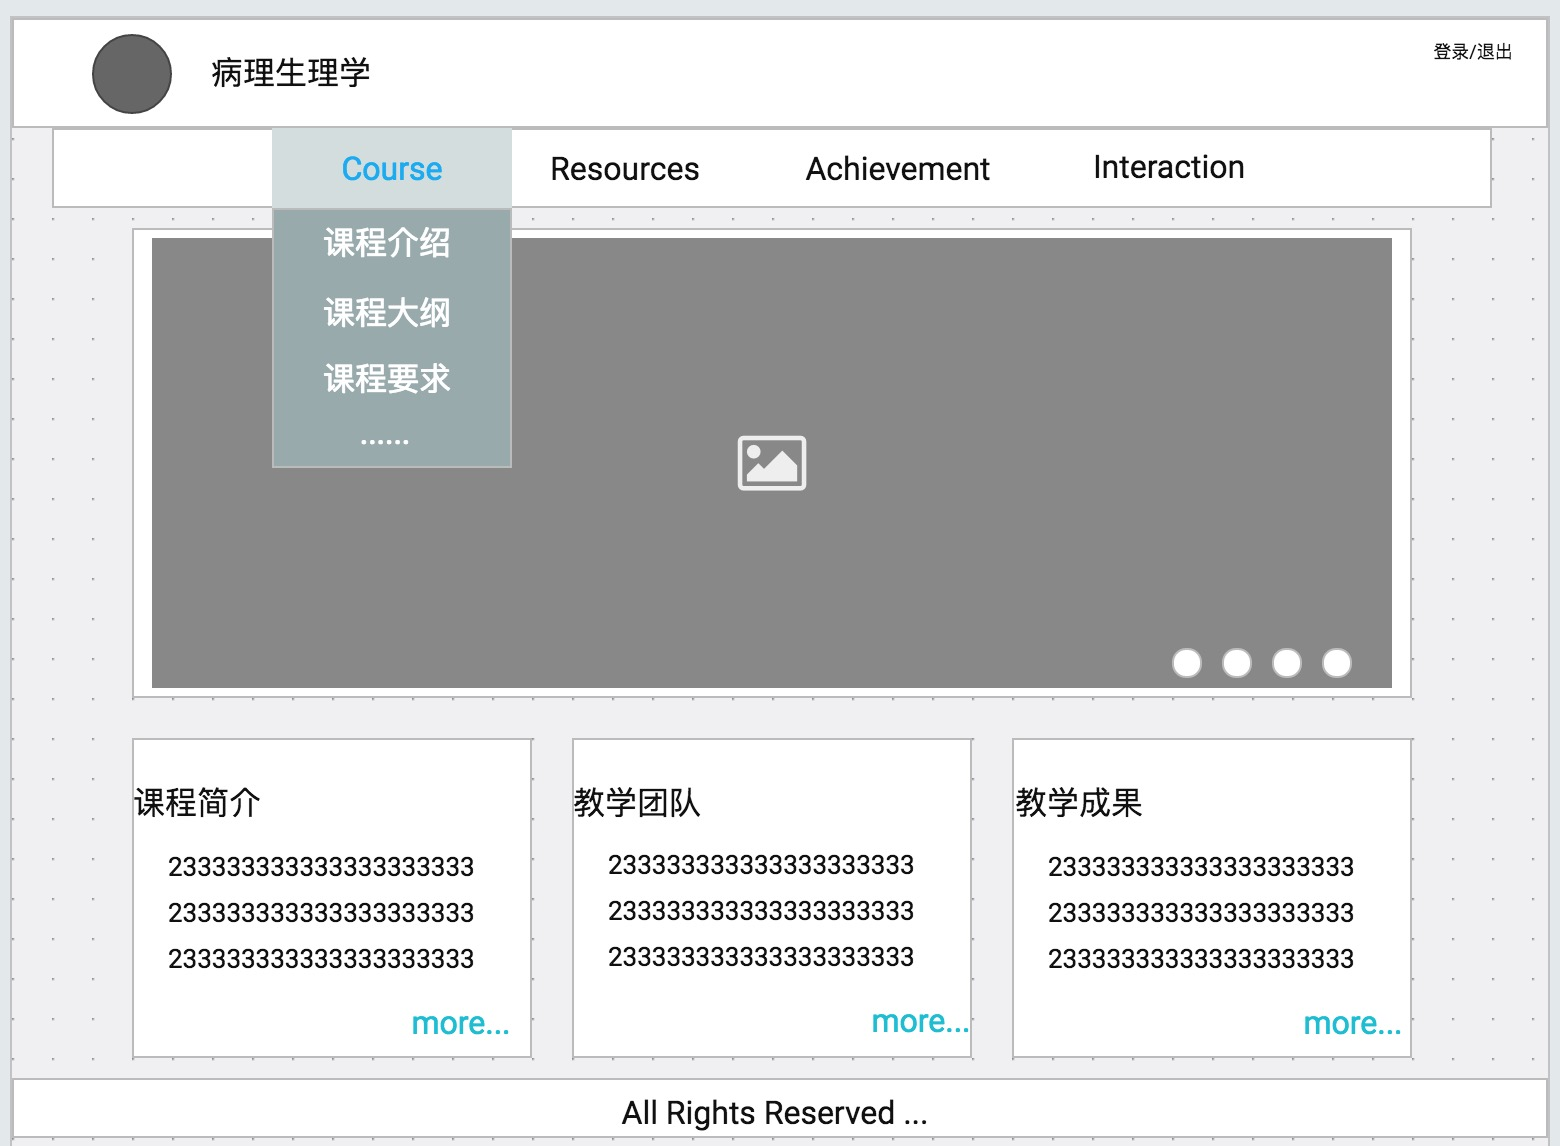
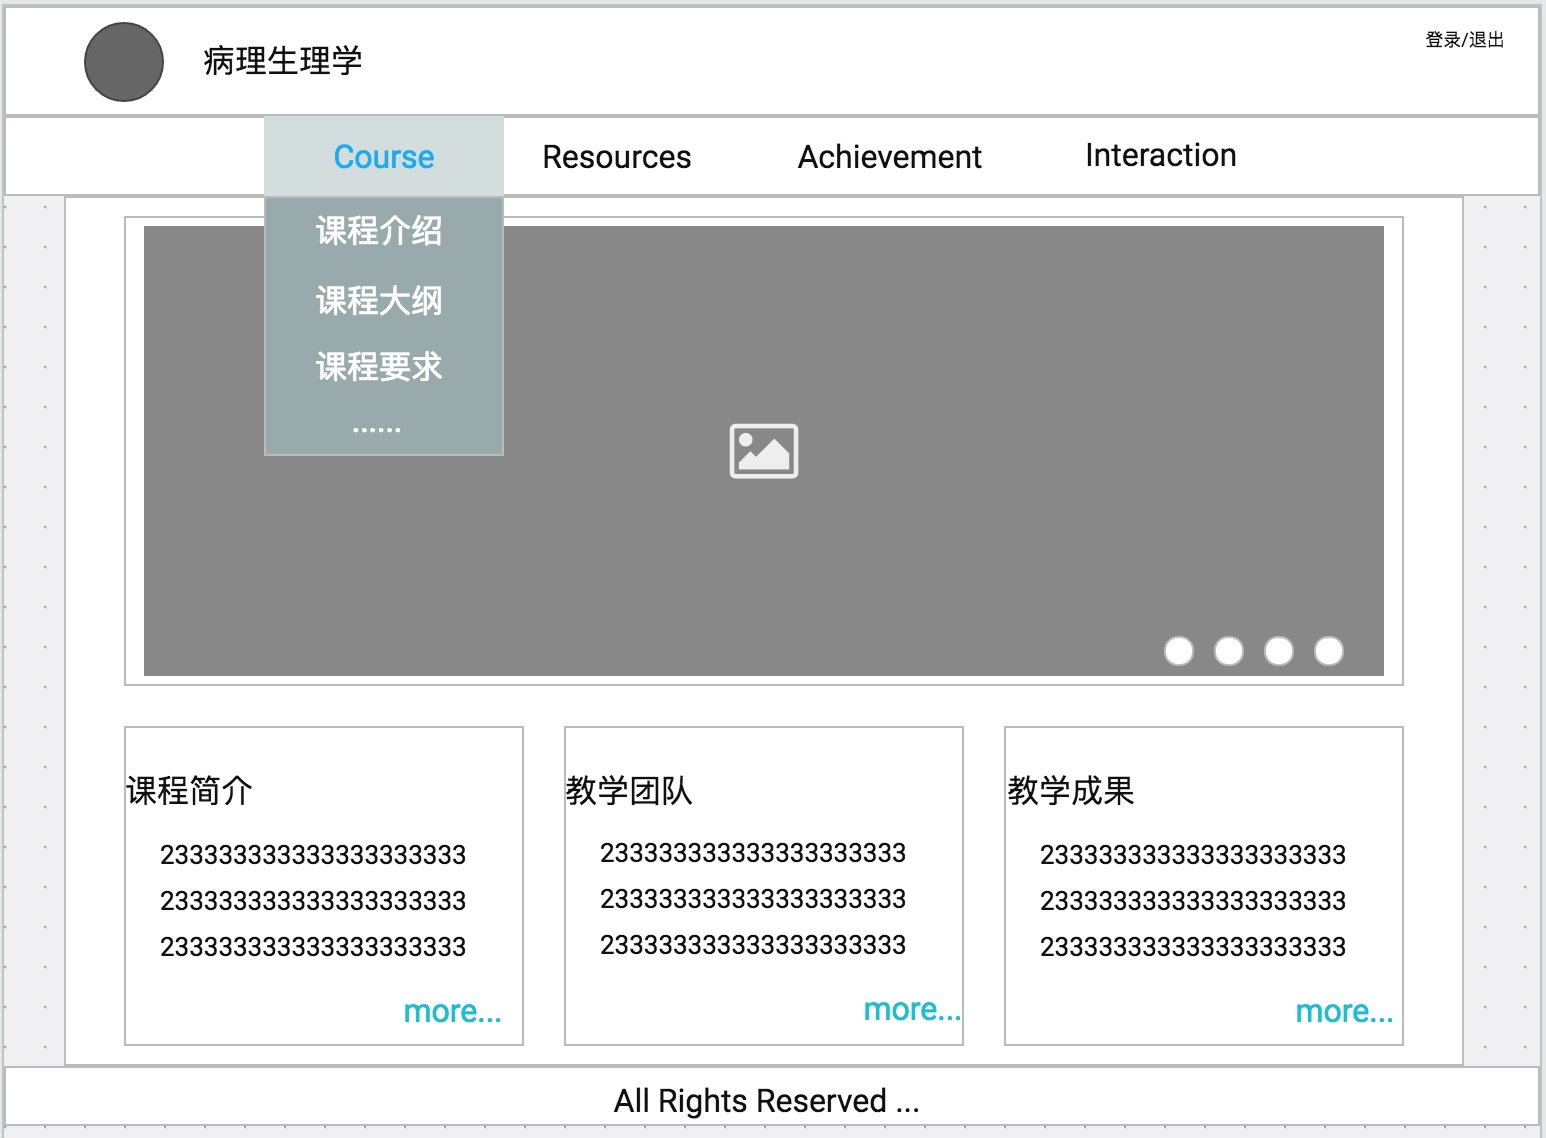
更新原型界面

Changed region(s): [[0.0, 0.0, 1.0, 1.0], [0.4657, 0.3691, 0.5278, 0.4306], [0.652, 0.6766, 0.7451, 0.7074]]

diff --git a/README.md b/README.md
@@ -101,9 +101,11 @@ git branch -d mydev
 **备注：**hover顶部4个项时候弹出菜单，菜单中包含相应模块的各部分内容的链接；主页中间为轮播图，展示教研室以及课程的特色；下面为3个主要的简介，最后的"more"是一个链接，可以跳转到相应的详细介绍的界面；
 
 #### B、主体界面
-![demo-main](images-for-readme/demo-main.png)
+![demo-main-1](images-for-readme/demo-main-1.png)
+![demo-main-2](images-for-readme/demo-main-2.png)
+![demo-main-3](images-for-readme/demo-main-3.png)
 
-**备注：**Course、Resources等4部分内容都在主体界面中展示，初步想法为根据不同的URL渲染不同的组件即可。每个组件的UI具体如何，待进一步完善设计。
+**备注：**Course、Resources等4部分内容都在主体界面中展示，初步想法为根据不同的URL渲染不同的组件即可，上面是简单的示例。每个组件的UI具体如何，信息如何呈现，需要待开发过程中进一步完善，整体上需要保持风格一致。
 
 #### C、管理界面
 ![demo-management](images-for-readme/demo-management.png)
